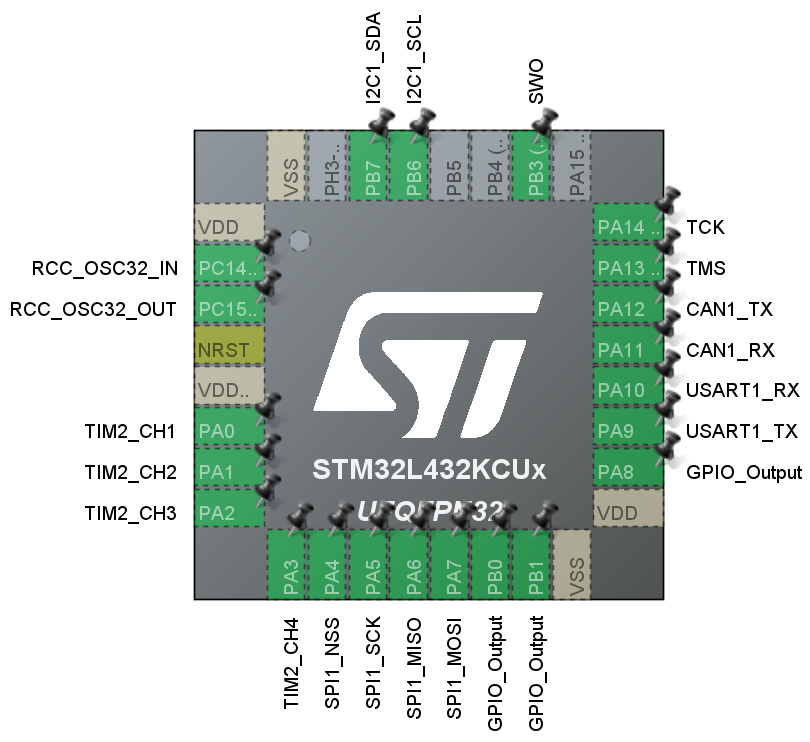
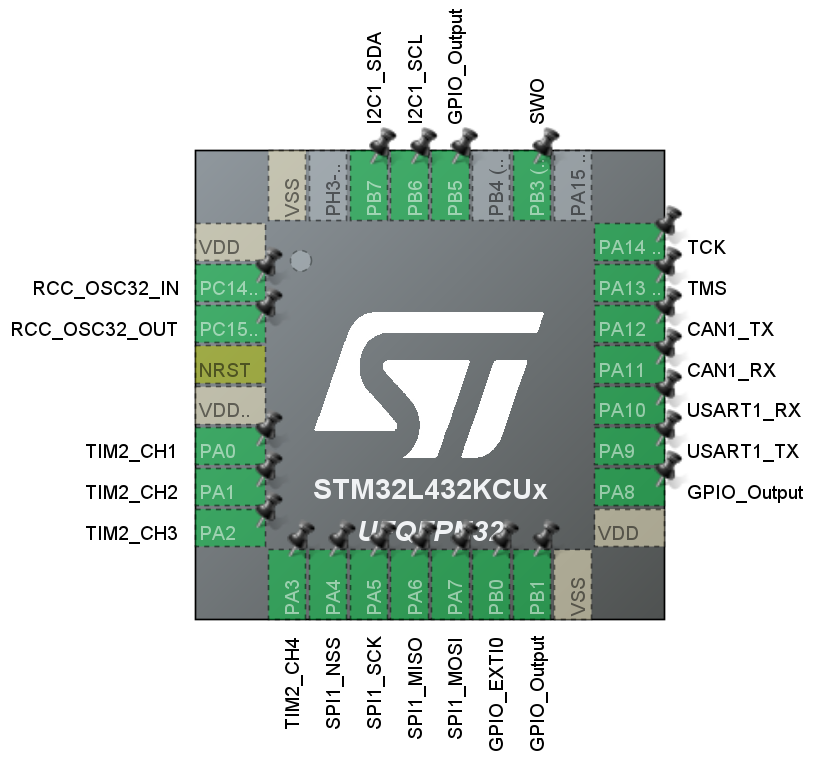
Reconfigure for RFM95CW DIO0

Changed region(s): [[0.0, 0.0, 0.9877, 0.9919], [0.5556, 0.527, 0.5864, 0.558]]

diff --git a/Core/Src/main.c b/Core/Src/main.c
@@ -474,13 +474,19 @@ static void MX_GPIO_Init(void)
   __HAL_RCC_GPIOB_CLK_ENABLE();
 
   /*Configure GPIO pin Output Level */
-  HAL_GPIO_WritePin(GPIOB, GPIO_PIN_0|GPIO_PIN_1, GPIO_PIN_RESET);
+  HAL_GPIO_WritePin(GPIOB, GPIO_PIN_1|GPIO_PIN_5, GPIO_PIN_RESET);
 
   /*Configure GPIO pin Output Level */
   HAL_GPIO_WritePin(GPIOA, GPIO_PIN_8, GPIO_PIN_RESET);
 
-  /*Configure GPIO pins : PB0 PB1 */
-  GPIO_InitStruct.Pin = GPIO_PIN_0|GPIO_PIN_1;
+  /*Configure GPIO pin : PB0 */
+  GPIO_InitStruct.Pin = GPIO_PIN_0;
+  GPIO_InitStruct.Mode = GPIO_MODE_IT_RISING;
+  GPIO_InitStruct.Pull = GPIO_NOPULL;
+  HAL_GPIO_Init(GPIOB, &GPIO_InitStruct);
+
+  /*Configure GPIO pins : PB1 PB5 */
+  GPIO_InitStruct.Pin = GPIO_PIN_1|GPIO_PIN_5;
   GPIO_InitStruct.Mode = GPIO_MODE_OUTPUT_PP;
   GPIO_InitStruct.Pull = GPIO_NOPULL;
   GPIO_InitStruct.Speed = GPIO_SPEED_FREQ_LOW;

diff --git a/README.md b/README.md
@@ -63,7 +63,8 @@ STM32L432KC secondary controller to primary Nerve controller.
 | PA4         | SPI1_NSS    |            | RFM95CW Pin 5: NSS    |                                     |
 | PA6         | SPI1_MISO   |            | RFM95CW Pin 2: MISO   |                                     |
 | PA7         | SPI1_MOSI   |            | RFM95CW Pin 3: MOSI   |                                     |
-| PB0         | GPIO_Output |            | RFM95CW Pin 6: NRESET | Default reset, pull low to turn on. |
+| PB1         | GPIO_Output |            | RFM95CW Pin 6: NRESET | Default reset, pull low to turn on. |
+| PB0         | GPIO_EXTI0  |            | RFM95CW Pin 14: DIO0  |                                     |
 | PB6         | I2C1_SCL    |            | BMP390 Pin 2: SCK     |                                     |
 | PB7         | I2C1_SDA    |            | BMP390 Pin 4: SDI     |                                     |
 | PA10        | USART1_RX   | 115200 bps | GPS (TBD)             |                                     |
@@ -71,7 +72,7 @@ STM32L432KC secondary controller to primary Nerve controller.
 | PA11        | CAN1_RX     |            | TJA1051T/3 Pin 4: RXD |                                     |
 | PA12        | CAN1_TX     |            | TJA1051T/3 Pin 1: TXD |                                     |
 | PB1         | GPIO_Output |            | Reserved              |                                     |
-| PA8         | GPIO_Output |            | Reserved              |                                     |
+| PA5         | GPIO_Output |            | Reserved              |                                     |
 
 </details>
 
